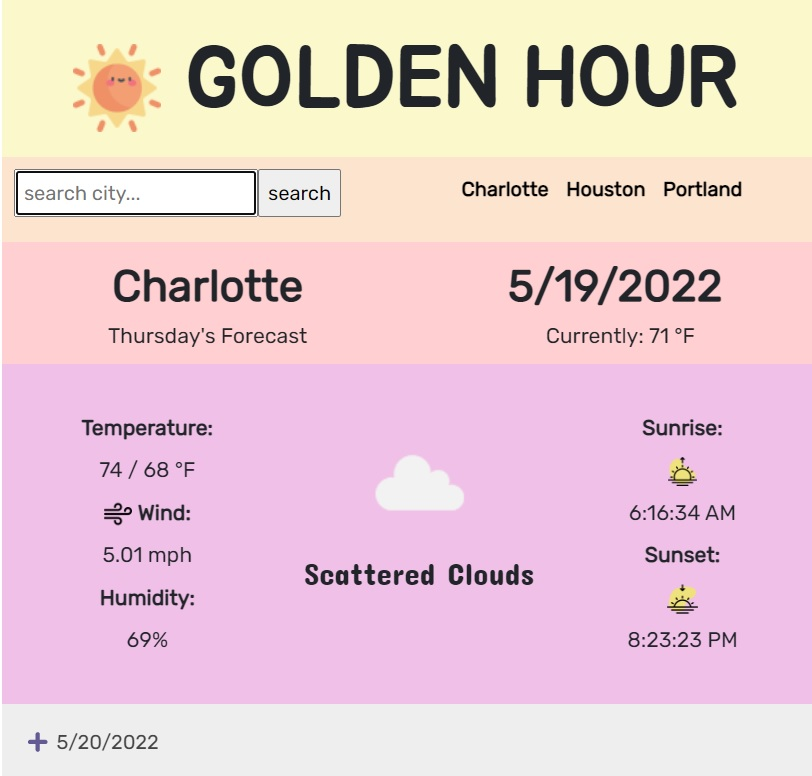
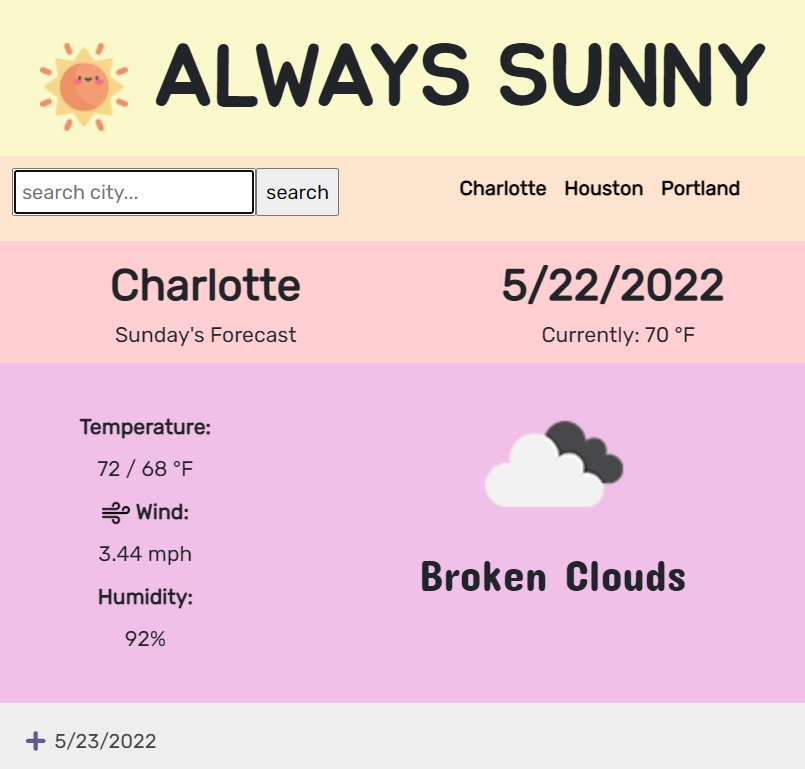
updated weather reference and photo

diff --git a/index.html b/index.html
@@ -180,11 +180,7 @@
             pretty complex. The three quick links are the home cities of my
             family. I'm based in Charlotte, my parents are in Houston, and my
             sister is in Portland. <br /><br />
-              Golden Hour is a reference to the hour of the sun rising and sun
-              setting. It's the time of day when the most beautiful golden light
-              is spread. This is when nature wakes up and then goes to sleep.
-              It's known to be the best hours for photography as the light
-              captured is unlike any other.
+              Always Sunny is a reference to one of my favorite TV Shows, but also to the weather that I'm always hoping for every time I check the app. The more sunshine the better!
           </p>
           <br />
           <a
